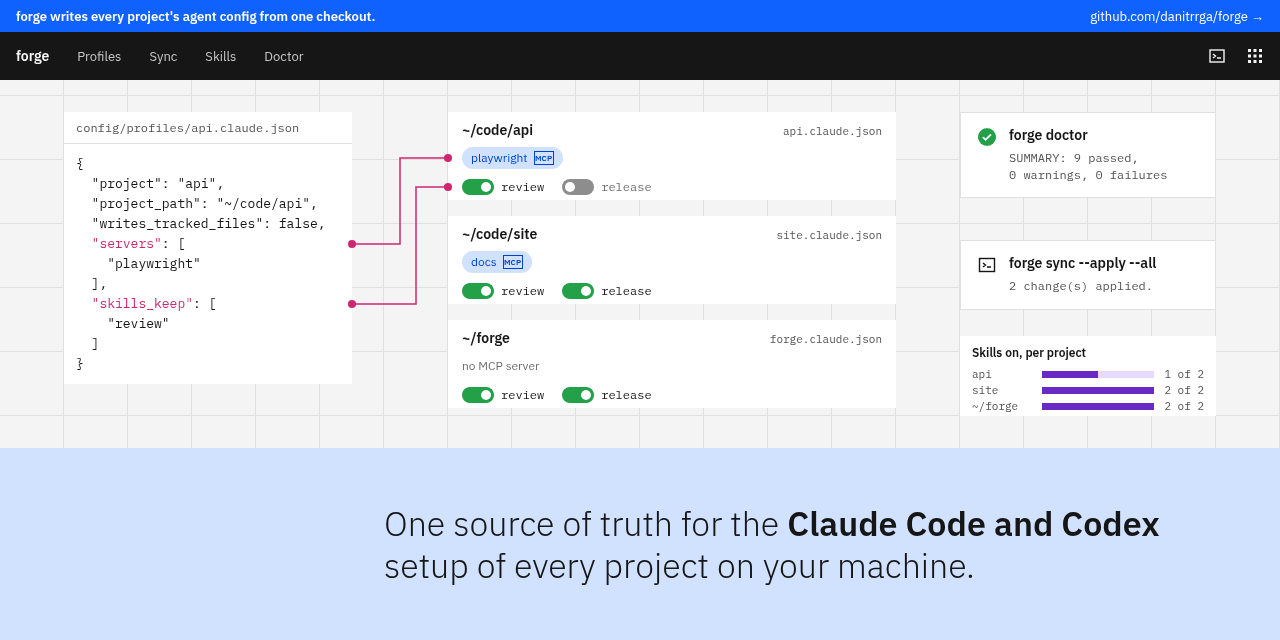
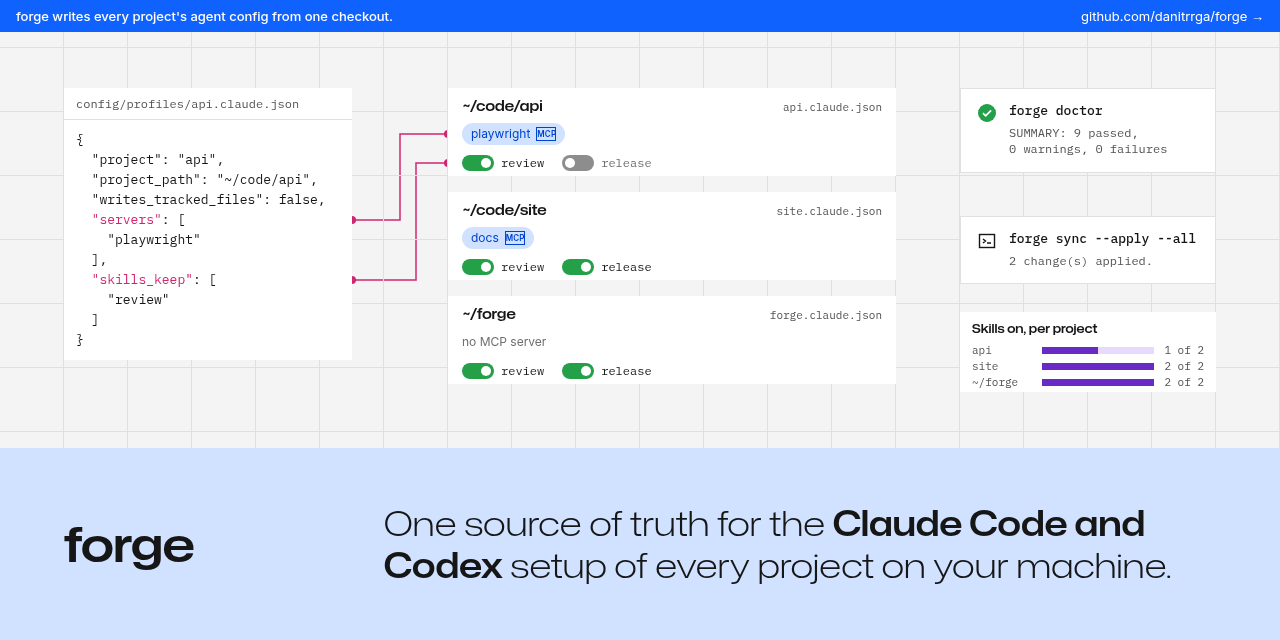
feat(docs): README images in Mona Sans and Inter, with a dark-theme copy of each
The main font (wordmark, titles, the band sentence) is Mona Sans, GitHub's brand typeface, pinned at its
expanded width; subtitles, descriptions, labels and tags are Inter; code stays Plex Mono. The masthead
nav bar is gone: the name sits in the band, as on the social preview. Every colour is a Carbon token
with a Gray 100 value, and build.py renders <name>-dark.png for the four README images, which the README
offers through <picture> and prefers-color-scheme. The social preview stays one image.

tests/test_readme.py now checks that every <source srcset> names a file that exists. Control: with the
check disabled, its plant gave 'FAIL control a dark-theme image that is not there fails its check =
False, want True'. build.py run twice: the nine pinned sha256 unchanged. check-public --all with the
private list: PASS, 881 files, 30 patterns.

diff --git a/docs/assets/src/carbon.css b/docs/assets/src/carbon.css
@@ -1,43 +1,59 @@
 /* The README images' one design system: IBM Carbon's visual language (the owner's library entry
-   carbon-design-system), in IBM Plex. Tokens first; every page reads these and nothing else. */
+   carbon-design-system). Tokens first; every page reads these and nothing else, so the dark copy that
+   build.py renders (<html data-theme="dark">) only swaps the values: White theme above, Gray 100 below.
+   Three type roles: --display (Mona Sans, expanded by its pin in fonts.json: the wordmark, titles, the band sentence), --sub (Inter: subtitles,
+   descriptions, labels, tags) and --mono (paths, JSON, commands). */
 :root{
-  --blue:#0f62fe; --ink:#161616; --ink2:#525252; --ink3:#6f6f6f; --field:#f4f4f4; --grid:#e0e0e0; --tile:#ffffff;
-  --band:#d0e2ff; --node:#d02670; --tagb:#d0e2ff; --tagt:#0043ce; --ok:#24a148; --off:#8d8d8d; --viz:#6929c4; --viz2:#e8daff;
+  --display:"Mona Sans"; --sub:"Inter"; --mono:"Plex Mono";
+  --blue:#0f62fe; --ink:#161616; --ink2:#525252; --ink3:#6f6f6f; --field:#f4f4f4; --grid:#e0e0e0; --rule:#e0e0e0; --tile:#ffffff;
+  --band:#d0e2ff; --band-ink:#161616;
+  --inv:#161616; --inv-ink:#f4f4f4; --inv-ink2:#c6c6c6;
+  --node:#d02670; --ok:#24a148; --off:#8d8d8d; --knob:#ffffff; --viz:#6929c4; --viz2:#e8daff; --head:#e0e0e0;
+  --tagb:#d0e2ff; --tagt:#0043ce; --grayb:#e0e0e0; --grayt:#393939; --purpleb:#e8daff; --purplet:#6929c4;
+  --greenb:#defbe6; --greent:#0e6027; --redb:#fff1f1; --redt:#a2191f; --warnb:#fcf4d6; --warnl:#f1c21b;
+}
+[data-theme=dark]{
+  --blue:#0f62fe; --ink:#f4f4f4; --ink2:#c6c6c6; --ink3:#8d8d8d; --field:#161616; --grid:#262626; --rule:#393939; --tile:#262626;
+  --band:#001d6c; --band-ink:#f4f4f4;
+  --inv:#f4f4f4; --inv-ink:#161616; --inv-ink2:#525252;
+  --node:#ee5396; --ok:#42be65; --off:#6f6f6f; --knob:#161616; --viz:#a56eff; --viz2:#491d8b; --head:#393939;
+  --tagb:#002d9c; --tagt:#a6c8ff; --grayb:#393939; --grayt:#e0e0e0; --purpleb:#491d8b; --purplet:#d4bbff;
+  --greenb:#044317; --greent:#6fdc8c; --redb:#750e13; --redt:#ffb3b8; --warnb:#262626; --warnl:#f1c21b;
 }
 html,body{margin:0;height:100%;overflow:hidden;background:var(--field)}
 *{box-sizing:border-box}
-pre,code,.mono,.mono *{font-family:"Plex Mono";font-variant-ligatures:none;font-feature-settings:"calt" 0,"liga" 0}
-.stage{position:relative;overflow:hidden;font-family:"Plex Sans";color:var(--ink);background:var(--field)}
+pre,code,.mono,.mono *{font-family:var(--mono);font-variant-ligatures:none;font-feature-settings:"calt" 0,"liga" 0}
+.stage{position:relative;overflow:hidden;font-family:var(--sub);color:var(--ink);background:var(--field)}
 .grid64{background-image:linear-gradient(var(--grid) 1px,transparent 1px),linear-gradient(90deg,var(--grid) 1px,transparent 1px);background-size:64px 64px}
-.bar{position:absolute;left:0;right:0;top:0;height:32px;background:var(--blue);color:#fff;display:flex;align-items:center;justify-content:space-between;padding:0 16px;font:600 13px/1 "Plex Sans"}
+.bar{position:absolute;left:0;right:0;top:0;height:32px;background:var(--blue);color:#fff;display:flex;align-items:center;justify-content:space-between;padding:0 16px;font:500 13px/1 var(--sub)}
 .bar span:last-child{font-weight:400}
-.mast{position:absolute;left:0;right:0;height:48px;background:var(--ink);color:#f4f4f4;display:flex;align-items:center;padding:0 16px;gap:28px;font:600 14px/1 "Plex Sans"}
-.mast em{font-style:normal;font-weight:400;color:#c6c6c6;font-size:13px}
-.mast .r{margin-left:auto;display:flex;gap:20px}
 .tile{position:absolute;background:var(--tile)}
-.code .hd{height:32px;display:flex;align-items:center;justify-content:space-between;padding:0 12px;border-bottom:1px solid var(--grid);font:400 12px/1 "Plex Mono";color:var(--ink2)}
-.code pre{margin:0;padding:10px 12px;font:400 13px/20px "Plex Mono";color:var(--ink)}
+.code .hd{height:32px;display:flex;align-items:center;justify-content:space-between;padding:0 12px;border-bottom:1px solid var(--rule);font:400 12px/1 var(--mono);color:var(--ink2)}
+.code pre{margin:0;padding:10px 12px;font:400 13px/20px var(--mono);color:var(--ink)}
 .k{color:var(--node)}
 .proj{padding:11px 14px}
-.proj .t{display:flex;justify-content:space-between;align-items:baseline;font:600 14px/1 "Plex Sans"}
-.proj .t small{font:400 11px/1 "Plex Mono";color:var(--ink2)}
+.proj .t{display:flex;justify-content:space-between;align-items:baseline;font:600 14px/1 var(--display)}
+.proj .t small{font:400 11px/1 var(--mono);color:var(--ink2)}
 .tags{display:flex;gap:6px;margin-top:10px;min-height:22px}
-.tag{display:inline-flex;align-items:center;gap:6px;height:22px;padding:0 9px;border-radius:12px;font:400 12px/1 "Plex Sans";background:var(--tagb);color:var(--tagt)}
+.tag{display:inline-flex;align-items:center;gap:6px;height:22px;padding:0 9px;border-radius:12px;font:400 12px/1 var(--sub);background:var(--tagb);color:var(--tagt)}
 .tag.none{background:transparent;color:var(--ink3);padding:0}
-.ai{display:inline-grid;place-items:center;width:20px;height:14px;border:1px solid currentColor;font:600 8px/1 "Plex Sans";letter-spacing:.02em}
+.ai{display:inline-grid;place-items:center;width:20px;height:14px;border:1px solid currentColor;font:600 8px/1 var(--sub);letter-spacing:.02em}
 .tgls{display:flex;gap:18px;margin-top:10px}
-.tgl{display:flex;align-items:center;gap:7px;font:400 12px/1 "Plex Mono";color:var(--ink)}
+.tgl{display:flex;align-items:center;gap:7px;font:400 12px/1 var(--mono);color:var(--ink)}
 .tgl i{position:relative;width:32px;height:16px;border-radius:8px;background:var(--off)}
-.tgl i:after{content:"";position:absolute;top:3px;left:3px;width:10px;height:10px;border-radius:50%;background:#fff}
+.tgl i:after{content:"";position:absolute;top:3px;left:3px;width:10px;height:10px;border-radius:50%;background:var(--knob)}
 .tgl.on i{background:var(--ok)}.tgl.on i:after{left:19px}
 .tgl.off{color:var(--ink3)}
-.toast{display:flex;gap:12px;padding:14px 16px;border:1px solid var(--grid)}
+.toast{display:flex;gap:12px;padding:14px 16px;border:1px solid var(--rule)}
 .toast svg{flex:none}
-.toast b{display:block;font:600 14px/1.2 "Plex Sans"}
-.toast span{display:block;margin-top:6px;font:400 12px/1.4 "Plex Mono";color:var(--ink2)}
-.band{position:absolute;left:0;right:0;background:var(--band);display:grid;grid-template-columns:320px 1fr;padding:0 64px;align-items:center}
-.band .r{font:300 34px/1.24 "Plex Sans";color:var(--ink)}
+.toast b{display:block;font:500 13px/1.2 var(--mono);white-space:nowrap}
+.toast span{display:block;margin-top:6px;font:400 12px/1.4 var(--mono);color:var(--ink2)}
+.band{position:absolute;left:0;right:0;background:var(--band);color:var(--band-ink);display:grid;grid-template-columns:320px 1fr;padding:0 64px;align-items:center}
+.band .r{font:300 34px/1.24 var(--display);color:var(--band-ink)}
 .band .r b{font-weight:600}
-.lbl{font:400 12px/1 "Plex Sans";color:var(--ink2);letter-spacing:.01em}
-.h4{font:600 14px/1.2 "Plex Sans"}
-svg.links{position:absolute;inset:0;pointer-events:none}
+.band .name{font:600 48px/1 var(--display);letter-spacing:-.01em}
+.lbl{font:400 12px/1 var(--sub);color:var(--ink2);letter-spacing:.01em}
+.h4{font:600 14px/1.2 var(--display)}
+/* the icons and connectors take their colour from the tokens, so one SVG serves both themes */
+.i-ok{fill:var(--ok)}.i-ink{stroke:var(--ink)}.i-blue{fill:var(--blue)}.i-on{stroke:var(--tile)}
+svg.links path{stroke:var(--node)}svg.links circle{fill:var(--node)}

diff --git a/docs/assets/src/banner.html b/docs/assets/src/banner.html
@@ -4,24 +4,20 @@
 <style>.stage{width:1280px;height:640px}</style></head><body>
 <div class="stage">
   <div class="bar"><span>forge writes every project's agent config from one checkout.</span><span>github.com/danitrrga/forge &rarr;</span></div>
-  <div class="mast" style="top:32px">forge <em>Profiles</em><em>Sync</em><em>Skills</em><em>Doctor</em>
-    <div class="r"><svg width="18" height="18" viewBox="0 0 18 18" fill="none" stroke="#f4f4f4" stroke-width="1.4"><rect x="2" y="3" width="14" height="12"/><path d="M5 7l2.5 2L5 11M9 11h4"/></svg>
-    <svg width="18" height="18" viewBox="0 0 18 18" fill="#f4f4f4"><rect x="2" y="2" width="3" height="3"/><rect x="7.5" y="2" width="3" height="3"/><rect x="13" y="2" width="3" height="3"/><rect x="2" y="7.5" width="3" height="3"/><rect x="7.5" y="7.5" width="3" height="3"/><rect x="13" y="7.5" width="3" height="3"/><rect x="2" y="13" width="3" height="3"/><rect x="7.5" y="13" width="3" height="3"/><rect x="13" y="13" width="3" height="3"/></svg></div>
-  </div>
-  <div class="grid64" style="position:absolute;left:0;right:0;top:80px;height:368px;background-position:-1px 15px"></div>
-  <div class="tile code" style="left:64px;top:112px;width:288px"><div class="hd"><span>config/profiles/api.claude.json</span></div><pre id="prof"></pre></div>
+  <div class="grid64" style="position:absolute;left:0;right:0;top:32px;height:416px;background-position:-1px 15px"></div>
+  <div class="tile code" style="left:64px;top:88px;width:288px"><div class="hd"><span>config/profiles/api.claude.json</span></div><pre id="prof"></pre></div>
   <div id="tiles"></div>
-  <div class="tile toast" style="left:960px;top:112px;width:256px">
-    <svg width="20" height="20" viewBox="0 0 20 20"><circle cx="10" cy="10" r="9" fill="#24a148"/><path d="M6 10.2l2.6 2.6L14 7.4" stroke="#fff" stroke-width="1.8" fill="none"/></svg>
+  <div class="tile toast" style="left:960px;top:88px;width:256px">
+    <svg width="20" height="20" viewBox="0 0 20 20"><circle class="i-ok" cx="10" cy="10" r="9"/><path class="i-on" d="M6 10.2l2.6 2.6L14 7.4" stroke-width="1.8" fill="none"/></svg>
     <div><b>forge doctor</b><span id="sum"></span></div>
   </div>
-  <div class="tile toast" style="left:960px;top:240px;width:256px">
-    <svg width="20" height="20" viewBox="0 0 20 20" fill="none" stroke="#161616" stroke-width="1.4"><rect x="2.5" y="3.5" width="15" height="13"/><path d="M6 8l2.5 2L6 12M10 12h4"/></svg>
+  <div class="tile toast" style="left:960px;top:216px;width:256px">
+    <svg class="i-ink" width="20" height="20" viewBox="0 0 20 20" fill="none" stroke-width="1.4"><rect x="2.5" y="3.5" width="15" height="13"/><path d="M6 8l2.5 2L6 12M10 12h4"/></svg>
     <div><b>forge sync --apply --all</b><span id="applied"></span></div>
   </div>
-  <div class="tile" style="left:960px;top:336px;width:256px;height:80px" id="viz"></div>
+  <div class="tile" style="left:960px;top:312px;width:256px;height:80px" id="viz"></div>
   <svg class="links" width="1280" height="640" viewBox="0 0 1280 640" id="links"></svg>
-  <div class="band" style="top:448px;bottom:0"><div></div>
+  <div class="band" style="top:448px;bottom:0"><div class="name">forge</div>
     <div class="r">One source of truth for the <b>Claude Code and Codex</b> setup of every project on your machine.</div></div>
 </div>
 <script>
@@ -30,7 +26,7 @@ const F=window.FORGE, M=F.matrix, esc=s=>s.replace(/&/g,"&amp;").replace(/</g,"&
 document.getElementById("prof").innerHTML=esc(F.files["config/profiles/api.claude.json"].trimEnd()).replace(/"(servers|skills_keep)"/g,'<span class="k">"$1"</span>');
 const sum=F.doctor.find(l=>l.startsWith("SUMMARY:"));document.getElementById("sum").innerHTML=sum.replace(" 0 warnings","<br>0 warnings");
 document.getElementById("applied").textContent=F.sync.find(l=>/change\(s\) applied/.test(l)).trim();
-const host=document.getElementById("tiles"), X=448, Y0=112, H=88, GAP=16, W=448;
+const host=document.getElementById("tiles"), X=448, Y0=88, H=88, GAP=16, W=448;
 M.rows.forEach(([name,v],r)=>{
   const servers=M.cols.filter((c,i)=>M.kinds[i]==="server"&&v[i]);
   const skills=M.cols.map((c,i)=>[c,v[i]]).filter((_,i)=>M.kinds[i]==="skill");
@@ -44,12 +40,12 @@ M.rows.forEach(([name,v],r)=>{
 const vz=document.getElementById("viz");
 vz.innerHTML='<div class="h4" style="font-size:12px;padding:10px 12px 6px">Skills on, per project</div>'+M.rows.map(([n,v])=>{
   const sk=v.filter((x,i)=>M.kinds[i]==="skill"),on=sk.filter(Boolean).length;
-  return `<div class="mono" style="display:grid;grid-template-columns:64px 1fr 44px;align-items:center;gap:6px;padding:0 12px;height:16px;font-size:11px;color:#525252;white-space:nowrap"><span>${n.replace("~/code/","")}</span><i style="display:block;height:7px;background:linear-gradient(90deg,var(--viz) ${on/sk.length*100}%,var(--viz2) ${on/sk.length*100}%)"></i><span style="text-align:right">${on} of ${sk.length}</span></div>`}).join("");
+  return `<div class="mono" style="display:grid;grid-template-columns:64px 1fr 44px;align-items:center;gap:6px;padding:0 12px;height:16px;font-size:11px;color:var(--ink2);white-space:nowrap"><span>${n.replace("~/code/","")}</span><i style="display:block;height:7px;background:linear-gradient(90deg,var(--viz) ${on/sk.length*100}%,var(--viz2) ${on/sk.length*100}%)"></i><span style="text-align:right">${on} of ${sk.length}</span></div>`}).join("");
 // magenta node connectors from the profile's two keys to what they produced in the api tile
 const svg=document.getElementById("links"),NS="http://www.w3.org/2000/svg";
 const add=(n,a)=>{const e=document.createElementNS(NS,n);for(const k in a)e.setAttribute(k,a[k]);svg.appendChild(e);return e};
 const lines=F.files["config/profiles/api.claude.json"].split("\n"),row=k=>lines.findIndex(l=>l.includes('"'+k+'"'));
-const keyY=[row("servers"),row("skills_keep")].map(i=>112+32+10+20*i+10);
+const keyY=[row("servers"),row("skills_keep")].map(i=>88+32+10+20*i+10);
 const tagY=Y0+11+14+10+11, tglY=Y0+11+14+10+22+10+8;
 [[keyY[0],tagY],[keyY[1],tglY]].forEach(([a,b],i)=>{
   add("path",{d:`M352 ${a} H${400+i*16} V${b} H${X}`,fill:"none",stroke:"#d02670","stroke-width":1.5});

diff --git a/docs/assets/src/fig-sync.html b/docs/assets/src/fig-sync.html
@@ -2,20 +2,20 @@
 <html lang="en"><head><meta charset="utf-8"><title>what forge writes</title>
 <link rel="stylesheet" href="fonts.css"><link rel="stylesheet" href="carbon.css"><script src="data.js"></script>
 <style>.stage{width:1280px;height:560px}
-.col{position:absolute;top:92px;font:600 12px/1 "Plex Sans";color:var(--ink2);letter-spacing:.02em}
+.col{position:absolute;top:92px;font:600 12px/1 var(--sub);color:var(--ink2);letter-spacing:.04em}
 .f{position:absolute;padding:12px 14px;height:64px}
 .f .p{font:500 13px/1 "Plex Mono";color:var(--ink)}
-.f .d{margin-top:9px;font:400 12.5px/1.3 "Plex Sans";color:var(--ink2);white-space:nowrap}
+.f .d{margin-top:9px;font:400 12.5px/1.3 var(--sub);color:var(--ink2);white-space:nowrap}
 .f .tag{position:absolute;right:10px;top:9px;height:20px;font-size:11px;padding:0 8px}
-.tag.g{background:#e0e0e0;color:#393939}.tag.p{background:#e8daff;color:#6929c4}
-.cmd{position:absolute;padding:14px 16px;background:var(--ink);color:#f4f4f4}
+.tag.g{background:var(--grayb);color:var(--grayt)}.tag.p{background:var(--purpleb);color:var(--purplet)}
+.cmd{position:absolute;padding:14px 16px;background:var(--inv);color:var(--inv-ink)}
 .cmd .p{font:500 15px/1 "Plex Mono"}
-.cmd .d{margin-top:10px;font:400 12.5px/1.45 "Plex Sans";color:#c6c6c6}
+.cmd .d{margin-top:10px;font:400 12.5px/1.45 var(--sub);color:var(--inv-ink2)}
 .title{position:absolute;left:64px;top:26px}
-.title b{display:block;font:600 22px/1 "Plex Sans"}
-.title span{display:block;margin-top:7px;font:400 14px/1 "Plex Sans";color:var(--ink2)}
-.doc{position:absolute;left:64px;right:64px;top:476px;height:52px;display:flex;align-items:center;gap:12px;padding:0 16px;background:var(--tile);border:1px solid var(--grid)}
-.doc b{font:600 14px/1 "Plex Mono"}.doc span{font:400 13px/1 "Plex Sans";color:var(--ink2)}
+.title b{display:block;font:600 22px/1 var(--display)}
+.title span{display:block;margin-top:9px;font:400 14px/1 var(--sub);color:var(--ink2)}
+.doc{position:absolute;left:64px;right:64px;top:476px;height:52px;display:flex;align-items:center;gap:12px;padding:0 16px;background:var(--tile);border:1px solid var(--rule)}
+.doc b{font:600 14px/1 "Plex Mono"}.doc span{font:400 13px/1 var(--sub);color:var(--ink2)}
 </style></head><body>
 <div class="stage grid64" style="background-position:-1px -1px">
   <div class="title"><b>What forge writes</b><span>You edit the sources. Every run rewrites the outputs, so a hand edit there is lost.</span></div>
@@ -24,7 +24,7 @@
   <div class="col" style="left:832px">FORGE WRITES</div>
   <div id="g"></div>
   <svg class="links" width="1280" height="560" viewBox="0 0 1280 560" id="links"></svg>
-  <div class="doc"><svg width="20" height="20" viewBox="0 0 20 20"><circle cx="10" cy="10" r="9" fill="#24a148"/><path d="M6 10.2l2.6 2.6L14 7.4" stroke="#fff" stroke-width="1.8" fill="none"/></svg>
+  <div class="doc"><svg width="20" height="20" viewBox="0 0 20 20"><circle class="i-ok" cx="10" cy="10" r="9"/><path class="i-on" d="M6 10.2l2.6 2.6L14 7.4" stroke-width="1.8" fill="none"/></svg>
     <b>forge doctor</b><span>checks both sides: one PASS, FAIL or SKIP line per check, and the command that fixes a FAIL.</span></div>
 </div>
 <script>

diff --git a/docs/assets/src/fig-trim.html b/docs/assets/src/fig-trim.html
@@ -3,20 +3,20 @@
 <link rel="stylesheet" href="fonts.css"><link rel="stylesheet" href="carbon.css"><script src="data.js"></script>
 <style>.stage{width:1280px;height:480px}
 .title{position:absolute;left:64px;top:30px}
-.title b{display:block;font:600 22px/1 "Plex Sans"}
-.title span{display:block;margin-top:8px;font:400 14px/1 "Plex Sans";color:var(--ink2)}
+.title b{display:block;font:600 22px/1 var(--display)}
+.title span{display:block;margin-top:9px;font:400 14px/1 var(--sub);color:var(--ink2)}
 table{position:absolute;left:64px;top:112px;width:576px;border-collapse:collapse;background:var(--tile)}
-th{height:40px;padding:0 16px;text-align:left;font:600 13px/1 "Plex Sans";background:#e0e0e0}
+th{height:40px;padding:0 16px;text-align:left;font:600 13px/1 var(--sub);background:var(--head)}
 th small{display:block;margin-top:5px;font:400 11px/1 "Plex Mono";color:var(--ink2)}
-td{height:52px;padding:0 16px;border-top:1px solid var(--grid);font:400 13px/1 "Plex Mono"}
+td{height:52px;padding:0 16px;border-top:1px solid var(--rule);font:400 13px/1 "Plex Mono"}
 td.n{font:500 13px/1 "Plex Mono"}
-.note{position:absolute;left:64px;top:340px;width:576px;display:flex;gap:12px;padding:14px 16px;background:var(--tile);border:1px solid var(--grid);font:400 13px/1.45 "Plex Sans";color:var(--ink2)}
+.note{position:absolute;left:64px;top:340px;width:576px;display:flex;gap:12px;padding:14px 16px;background:var(--tile);border:1px solid var(--rule);font:400 13px/1.45 var(--sub);color:var(--ink2)}
 .note b{color:var(--ink);font-weight:600}.note code{font-size:12px;color:var(--ink)}
 </style></head><body>
 <div class="stage grid64" style="background-position:-1px -1px">
   <div class="title"><b>Which skills each project loads</b><span>A profile with skills_keep loads only those; one without it loads every skill.</span></div>
   <table id="t"></table>
-  <div class="note"><svg width="18" height="18" viewBox="0 0 20 20" style="flex:none;margin-top:1px"><circle cx="10" cy="10" r="9" fill="#0f62fe"/><path d="M10 9v5M10 6v.5" stroke="#fff" stroke-width="2"/></svg>
+  <div class="note"><svg width="18" height="18" viewBox="0 0 20 20" style="flex:none;margin-top:1px"><circle class="i-blue" cx="10" cy="10" r="9"/><path d="M10 9v5M10 6v.5" stroke="#fff" stroke-width="2"/></svg>
     <div>With GSD on, <code>skill_keep.gsd_exclude</code> drops a <code>gsd-*</code> skill from every project and <code>gsd_opt_in</code> keeps one only where an <code>extras</code> row names it.</div></div>
   <div class="tile code" style="left:768px;top:112px;width:448px"><div class="hd"><span>config/profiles/api.claude.json</span><span class="lbl">you write</span></div><pre id="prof"></pre></div>
   <div class="tile code" style="left:768px;top:302px;width:448px"><div class="hd"><span>~/code/api/.claude/settings.local.json</span><span class="lbl">forge writes</span></div><pre id="set"></pre></div>

diff --git a/docs/assets/src/fig-bench.html b/docs/assets/src/fig-bench.html
@@ -3,17 +3,17 @@
 <link rel="stylesheet" href="fonts.css"><link rel="stylesheet" href="carbon.css">
 <style>.stage{width:1280px;height:400px}
 .title{position:absolute;left:64px;top:30px}
-.title b{display:block;font:600 22px/1 "Plex Sans"}
-.title span{display:block;margin-top:8px;font:400 14px/1 "Plex Sans";color:var(--ink2)}
+.title b{display:block;font:600 22px/1 var(--display)}
+.title span{display:block;margin-top:9px;font:400 14px/1 var(--sub);color:var(--ink2)}
 .s{position:absolute;top:112px;height:208px;padding:14px 16px;background:var(--tile)}
 .s .n{font:600 11px/1 "Plex Mono";color:var(--node);letter-spacing:.04em}
-.s .h{margin-top:8px;font:600 15px/1.2 "Plex Sans"}
-.s .p{margin-top:10px;font:400 12.5px/1.45 "Plex Sans";color:var(--ink2)}
+.s .h{margin-top:8px;font:600 15px/1.2 var(--display)}
+.s .p{margin-top:10px;font:400 12.5px/1.45 var(--sub);color:var(--ink2)}
 .s .c{margin-top:10px;font:400 12px/1.6 "Plex Mono";color:var(--ink)}
 .s .tag{height:20px;font-size:11px;padding:0 8px;margin:10px 4px 0 0}
-.tag.g{background:#defbe6;color:#0e6027}.tag.r{background:#fff1f1;color:#a2191f}
-.arm{display:flex;justify-content:space-between;padding:7px 0;border-top:1px solid var(--grid);font:400 12px/1 "Plex Mono"}
-.warn{position:absolute;left:64px;right:64px;top:340px;display:flex;align-items:center;gap:12px;height:40px;padding:0 16px;background:#fcf4d6;border:1px solid #f1c21b;font:400 13px/1 "Plex Sans";color:#161616}
+.tag.g{background:var(--greenb);color:var(--greent)}.tag.r{background:var(--redb);color:var(--redt)}
+.arm{display:flex;justify-content:space-between;padding:7px 0;border-top:1px solid var(--rule);font:400 12px/1 "Plex Mono"}
+.warn{position:absolute;left:64px;right:64px;top:340px;display:flex;align-items:center;gap:12px;height:40px;padding:0 16px;background:var(--warnb);border:1px solid var(--warnl);border-left-width:3px;font:400 13px/1 var(--sub);color:var(--ink)}
 .warn code{font-size:12.5px}
 </style></head><body>
 <div class="stage grid64" style="background-position:-1px -1px">

diff --git a/docs/assets/src/social-preview.html b/docs/assets/src/social-preview.html
@@ -2,14 +2,13 @@
 <html lang="en"><head><meta charset="utf-8"><title>forge social preview</title>
 <link rel="stylesheet" href="fonts.css"><link rel="stylesheet" href="carbon.css"><script src="data.js"></script>
 <style>.stage{width:1200px;height:630px}
-.band .name{font:600 72px/1 "Plex Sans";letter-spacing:-.02em}
+.band .name{font-size:64px}
 .band{grid-template-columns:300px 1fr}
 .band .r{font-size:32px}
 .proj .t{font-size:16px}.tag{font-size:13px}.tgl{font-size:13px}</style></head><body>
 <div class="stage">
   <div class="bar"><span>One checkout. Every project's agent config.</span><span>github.com/danitrrga/forge &rarr;</span></div>
-  <div class="mast" style="top:32px">forge <em>Profiles</em><em>Sync</em><em>Skills</em><em>Doctor</em></div>
-  <div class="grid64" style="position:absolute;left:0;right:0;top:80px;height:270px;background-position:-1px 15px"></div>
+  <div class="grid64" style="position:absolute;left:0;right:0;top:32px;height:318px;background-position:-1px 15px"></div>
   <div id="tiles"></div>
   <svg class="links" width="1200" height="630" viewBox="0 0 1200 630" id="links"></svg>
   <div class="band" style="top:350px;bottom:0"><div class="name">forge</div>

diff --git a/docs/assets/src/build.py b/docs/assets/src/build.py
@@ -2,7 +2,7 @@
 """Render the README images from their sources, the same way on any machine.
 
     python3 docs/assets/src/capture.py      # only when forge's output changed: rewrites transcript.json
-    python3 docs/assets/src/build.py        # every page in PAGES -> docs/assets/<name>.png
+    python3 docs/assets/src/build.py        # every page in PAGES -> docs/assets/<name>.png, and <name>-dark.png for THEMED
     python3 docs/assets/src/build.py --preview DIR   # the pages, fonts and data in DIR, to look at live
 
 Each page is plain HTML and CSS at a fixed size. The fonts are the exact files pinned in fonts.json, fetched once into
@@ -27,6 +27,14 @@ CHROMIUM = os.environ.get("CHROMIUM", "/usr/bin/chromium")
 # name: (width, height). The file is <name>.html beside this script and the image docs/assets/<name>.png.
 PAGES = {"banner": (1280, 640), "social-preview": (1200, 630), "fig-sync": (1280, 560), "fig-trim": (1280, 480), "fig-bench": (1280, 400)}
 SHARED = ("carbon.css",)
+# Pages the README shows, so each also renders on Carbon's dark theme as docs/assets/<name>-dark.png, for GitHub's
+# dark mode (<picture> with prefers-color-scheme). The social preview is one image: GitHub shows it on no theme.
+THEMED = ("banner", "fig-sync", "fig-trim", "fig-bench")
+
+
+def pages():
+    """[(image name, html file, (w, h))]: every page, then the dark copy of each themed one."""
+    return [(n, n + ".html", wh) for n, wh in PAGES.items()] + [(n + "-dark", n + "-dark.html", PAGES[n]) for n in THEMED]
 
 
 def fonts():
@@ -57,8 +65,9 @@ def stage(dst):
     css = []
     for p, path in fonts():
         shutil.copy(path, os.path.join(dst, "fonts", p["file"]))
-        css.append('@font-face{font-family:"%s";src:url("fonts/%s") format("woff2");font-weight:%d;font-style:normal;font-display:block}'
-                   % (p["family"], p["file"], p["weight"]))
+        stretch = ";font-stretch:%s" % p["stretch"] if "stretch" in p else ""
+        css.append('@font-face{font-family:"%s";src:url("fonts/%s") format("woff2");font-weight:%s;font-style:normal;font-display:block%s}'
+                   % (p["family"], p["file"], p["weight"], stretch))
     with open(os.path.join(dst, "fonts.css"), "w") as fh:
         fh.write("\n".join(css) + "\n")
     t = json.load(open(os.path.join(HERE, "transcript.json")))
@@ -66,6 +75,12 @@ def stage(dst):
         fh.write("window.FORGE = " + json.dumps(data(t), indent=1) + ";\n")
     for name in PAGES:
         shutil.copy(os.path.join(HERE, name + ".html"), dst)
+    for name in THEMED:
+        html = open(os.path.join(HERE, name + ".html")).read()
+        if html.count('<html lang="en">') != 1:
+            sys.exit("! %s.html: no single <html lang=\"en\"> to mark dark" % name)
+        with open(os.path.join(dst, name + "-dark.html"), "w") as fh:
+            fh.write(html.replace('<html lang="en">', '<html lang="en" data-theme="dark">'))
     for s in SHARED:
         shutil.copy(os.path.join(HERE, s), dst)
 
@@ -91,11 +106,11 @@ def data(t):
 
 def render(dst):
     from PIL import Image
-    for name, (w, h) in PAGES.items():
+    for name, page, (w, h) in pages():
         png = os.path.join(dst, name + ".raw.png")
         r = subprocess.run([CHROMIUM, "--headless=new", "--disable-gpu", "--hide-scrollbars", "--force-device-scale-factor=1",
                             "--window-size=%d,%d" % (w, h), "--virtual-time-budget=4000", "--screenshot=" + png,
-                            "file://" + os.path.join(dst, name + ".html")], capture_output=True, text=True)
+                            "file://" + os.path.join(dst, page)], capture_output=True, text=True)
         if r.returncode or not os.path.exists(png):
             sys.exit("! chromium could not render %s: %s" % (name, r.stderr.strip()[-300:]))
         im = Image.open(png).convert("RGB")
@@ -114,7 +129,7 @@ def main():
     a = ap.parse_args()
     if a.preview:
         stage(a.preview)
-        print("staged %d page(s) in %s" % (len(PAGES), a.preview))
+        print("staged %d page(s) in %s" % (len(pages()), a.preview))
         return
     with tempfile.TemporaryDirectory(prefix="forge-assets-") as d:
         stage(d)

diff --git a/tests/test_readme.py b/tests/test_readme.py
@@ -6,7 +6,8 @@
 - every engine path the two files name in backticks (forge/, scripts/, hooks/, tests/, githooks/, examples/, bin/,
   benchmarks/skill-bench/, docs/assets/, .github/) exists in this checkout;
 - every UPPER_CASE name they put in backticks is assigned somewhere in the engine's Python;
-- every <img> in README.md points at a file that exists and carries alt text of at least 40 characters.
+- every <img> in README.md points at a file that exists and carries alt text of at least 40 characters, and every
+  <source srcset> (the dark-theme image of a <picture>) points at a file that exists.
 
 The paths of a user's data (config/forge.json, credentials/, skills/) are not engine files and are not checked.
 Controls (control_cases): a README with a made-up subcommand, a missing one, a dead path, an unknown constant and an
@@ -110,6 +111,8 @@ def check(readme, claude_md, subs, bench, exists, python_src, label=""):
     for src, alt in re.findall(r'<img src="([^"]+)" alt="([^"]*)"', readme):
         want(label + "image %s exists" % src, exists(src), True)
         want(label + "image %s has alt text of 40+ characters" % src, len(alt) >= 40, True)
+    for src in re.findall(r'<source [^>]*srcset="([^"]+)"', readme):
+        want(label + "dark-theme image %s exists" % src, exists(src), True)
     return failures[before:]
 
 
@@ -122,6 +125,9 @@ def control_cases(readme, claude_md, subs, bench, exists, python_src):
         ("a dead path", readme + "\n`forge/no_such_module.py`\n", claude_md, "engine paths named and missing"),
         ("an unknown constant", readme, claude_md + "\n`NO_SUCH_TABLE`\n", "constants named and never assigned"),
         ("an image with no alt text", readme + '\n<img src="docs/assets/none.png" alt="">\n', claude_md, "has alt text"),
+        ("a dark-theme image that is not there",
+         readme + '\n<source media="(prefers-color-scheme: dark)" srcset="docs/assets/none-dark.png">\n', claude_md,
+         "dark-theme image"),
         ("zero paths and constants", "## Commands\n\n```\n```\n", "", "read at least one path"))
     for name, r, c, needle in plants:
         got = check(r, c, subs, bench, exists, python_src, label="[control: %s] " % name)

diff --git a/forge/publish.py b/forge/publish.py
@@ -38,11 +38,15 @@ ASSET_EXT = {".woff", ".woff2", ".ttf", ".otf", ".eot", ".png", ".jpg", ".jpeg",
 # sha256 of the bytes looked at. Only the extension rule is waived, and only for those exact bytes at that
 # path: a changed byte fails again until someone looks again, and an SVG is still read line by line.
 PUBLIC_ASSETS = {
[14 lines of base64/hex data omitted]
 }
 # Where dates are data (a skill-bench task's calendar, its leap day), not the record of a decision: in these files a
 # private pattern that matches a bare ISO date is not applied. Every other private pattern still is.

diff --git a/README.md b/README.md
@@ -1,6 +1,6 @@
 # forge
 
-<img src="docs/assets/banner.png" alt="forge: a project's profile, config/profiles/api.claude.json, asking for the playwright MCP server and the review skill, joined by connectors to the api project, which gets playwright and has review on and release off; the site and forge projects beside it with their own servers and skills; forge doctor reporting 9 passed, 0 warnings, 0 failures. One source of truth for the Claude Code and Codex setup of every project on your machine." width="100%">
+<picture><source media="(prefers-color-scheme: dark)" srcset="docs/assets/banner-dark.png"><img src="docs/assets/banner.png" alt="forge: a project's profile, config/profiles/api.claude.json, asking for the playwright MCP server and the review skill, joined by connectors to the api project, which gets playwright and has review on and release off; the site and forge projects beside it with their own servers and skills; forge doctor reporting 9 passed, 0 warnings, 0 failures. One source of truth for the Claude Code and Codex setup of every project on your machine." width="100%"></picture>
 
 **One source of truth for the Claude Code and Codex setup of every project on your machine.**
 
@@ -57,7 +57,7 @@ a name that is not kebab-case. By default forge writes no file git tracks in the
 
 ## How it works
 
-<img src="docs/assets/fig-sync.png" alt="What forge writes: the profiles, the MCP registry and the git-ignored secrets file feed forge sync, which a SessionStart hook runs for the project you open and which writes each project's .claude/settings.local.json, its MCP servers in ~/.claude.json and, with Codex on, its .codex/config.toml; skills/ feeds forge skills, which links each skill into ~/.claude/skills; forge doctor checks both sides." width="100%">
+<picture><source media="(prefers-color-scheme: dark)" srcset="docs/assets/fig-sync-dark.png"><img src="docs/assets/fig-sync.png" alt="What forge writes: the profiles, the MCP registry and the git-ignored secrets file feed forge sync, which a SessionStart hook runs for the project you open and which writes each project's .claude/settings.local.json, its MCP servers in ~/.claude.json and, with Codex on, its .codex/config.toml; skills/ feeds forge skills, which links each skill into ~/.claude/skills; forge doctor checks both sides." width="100%"></picture>
 
 A profile, `config/profiles/<name>.claude.json`, holds a project's path, the MCP servers it gets from
 `config/mcp-registry.json`, the skills and plugins it keeps, permissions, env and hooks. The accepted fields
@@ -104,7 +104,7 @@ installed unpatched from its package when the `gsd` integration is on. forge doe
 only by a profile whose `skill_keep.extras` row names them); `forge doctor`'s `skill keep` row fails on a name
 no skill has, a name in both lists, or an excluded name in an `extras` row.
 
-<img src="docs/assets/fig-trim.png" alt="Which skills each project loads: the api profile keeps only review, so forge writes release off into ~/code/api/.claude/settings.local.json; site and the forge checkout have no skills_keep and load both review and release." width="100%">
+<picture><source media="(prefers-color-scheme: dark)" srcset="docs/assets/fig-trim-dark.png"><img src="docs/assets/fig-trim.png" alt="Which skills each project loads: the api profile keeps only review, so forge writes release off into ~/code/api/.claude/settings.local.json; site and the forge checkout have no skills_keep and load both review and release." width="100%"></picture>
 
 ## Measure a skill: skill-bench
 
@@ -113,7 +113,7 @@ task in `benchmarks/skill-bench/tasks/` is a small repository, a prompt in the o
 scores the result, plus a correct answer, a second correct answer built differently and the plausible wrong one.
 `validate` proves every oracle can fail and can pass before any score is trusted.
 
-<img src="docs/assets/fig-bench.png" alt="skill-bench in five steps: a task such as logic-datetime-02 with its repository and an oracle of 8 checks; validate, where the ideal and alternative answers pass and the naive one fails; the arms, no skill and your skill, k runs each; each run as claude -p in its own config directory; a paired report per task. Arms that ran on different models are refused." width="100%">
+<picture><source media="(prefers-color-scheme: dark)" srcset="docs/assets/fig-bench-dark.png"><img src="docs/assets/fig-bench.png" alt="skill-bench in five steps: a task such as logic-datetime-02 with its repository and an oracle of 8 checks; validate, where the ideal and alternative answers pass and the naive one fails; the arms, no skill and your skill, k runs each; each run as claude -p in its own config directory; a paired report per task. Arms that ran on different models are refused." width="100%"></picture>
 
 ```sh
 python3 scripts/bench/skill_bench.py validate          # every task: the ideal and alt answers pass, the naive one fails
